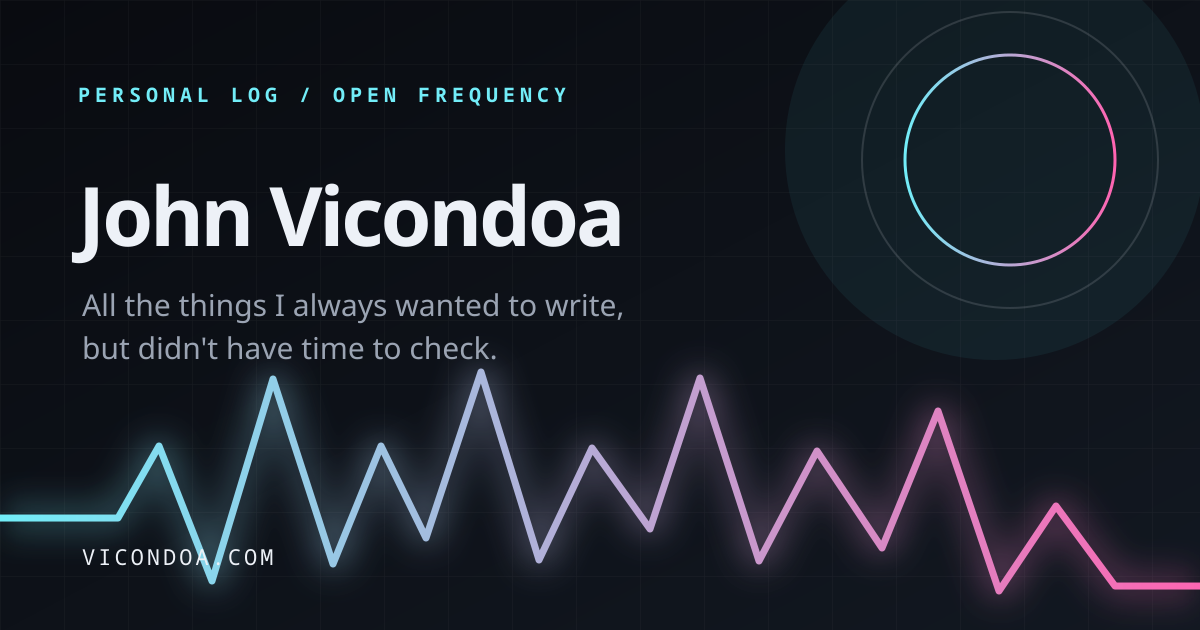
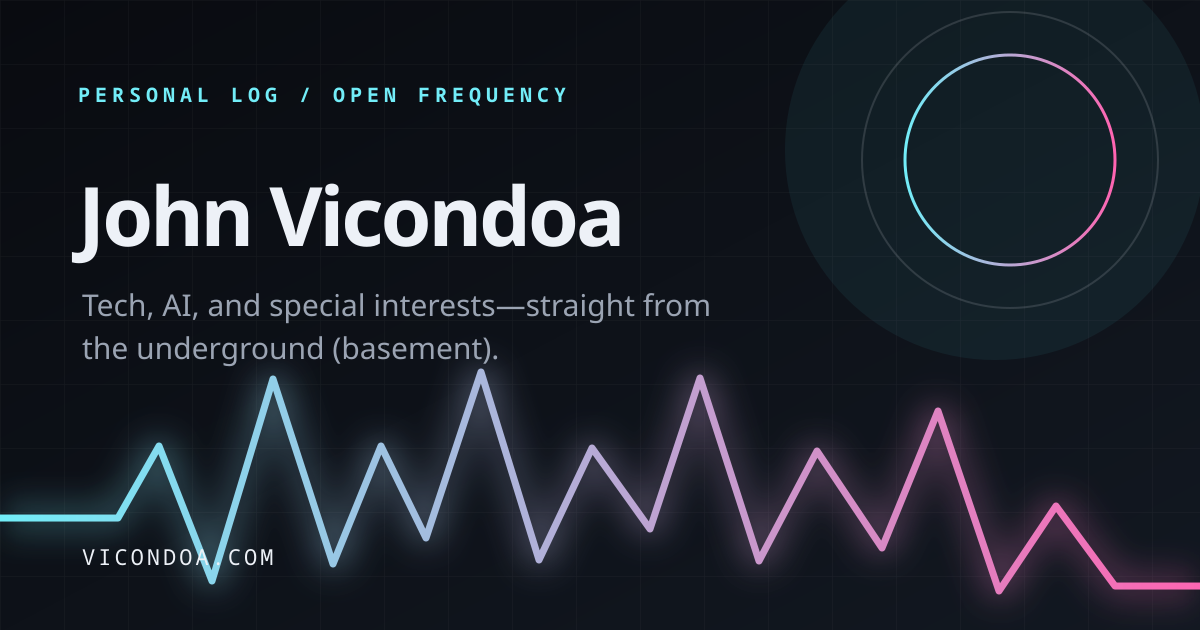
Refine the header and matrix field (#3)
Copilot-Session: d1b2f3a9-69b7-400d-a304-41e5a9e0c7bb

Changed region(s): [[0.0617, 0.4524, 0.5858, 0.5127], [0.0617, 0.5429, 0.4317, 0.573]]

diff --git a/src/styles/global.css b/src/styles/global.css
@@ -22,7 +22,7 @@
   --font-mono: 'SFMono-Regular', Consolas, 'Liberation Mono', monospace;
   --content-width: 46rem;
   --wide-width: 72rem;
-  --header-height: 4.75rem;
+  --header-height: 6.25rem;
 }
 
 @media (prefers-color-scheme: dark) {
@@ -219,34 +219,38 @@ p {
   min-height: var(--header-height);
   align-items: center;
   gap: 1rem;
-  grid-template-columns: auto 1fr;
+  grid-template-columns: minmax(0, 1fr) auto;
 }
 
-.brand-mark {
-  display: grid;
-  width: 2.4rem;
-  height: 2.4rem;
-  place-items: center;
-  border: 1px solid transparent;
-  border-radius: 0.4rem;
-  color: var(--cyan);
+.site-identity {
+  display: flex;
+  min-width: 0;
+  align-items: flex-start;
+  flex-direction: column;
+  color: var(--text);
+  line-height: 1.25;
   text-decoration: none;
 }
 
-.brand-mark:hover {
-  border-color: var(--border);
-  background: var(--surface);
-  color: var(--cyan);
+.site-identity:hover {
+  color: var(--text);
 }
 
-.brand-mark svg {
-  width: 1.5rem;
-  height: 1.5rem;
-  fill: currentColor;
+.site-identity__name {
+  font-family: var(--font-display);
+  font-size: 1.15rem;
+  font-weight: 720;
+  letter-spacing: -0.025em;
 }
 
-.brand-mark__accent {
-  fill: var(--magenta);
+.site-identity__tagline {
+  max-width: 34rem;
+  margin-top: 0.24rem;
+  color: var(--text-muted);
+  font-family: var(--font-mono);
+  font-size: 0.68rem;
+  letter-spacing: 0.015em;
+  line-height: 1.4;
 }
 
 .site-nav {
@@ -336,16 +340,9 @@ p {
 .site-footer__inner {
   display: flex;
   align-items: flex-start;
-  justify-content: space-between;
+  justify-content: flex-end;
   gap: 2rem;
   padding-block: 2.5rem;
-}
-
-.site-footer__tagline {
-  max-width: 35rem;
-  margin: 0;
-  color: var(--text-muted);
-  font-size: 0.9rem;
 }
 
 .site-footer__meta {
@@ -566,17 +563,14 @@ p {
 
 .blog-hero {
   position: relative;
-  min-height: clamp(20rem, 44vw, 30rem);
+  min-height: clamp(26rem, 50vw, 36rem);
   overflow: hidden;
   border-bottom: 1px solid var(--border);
-  background:
-    linear-gradient(
-      90deg,
-      color-mix(in srgb, var(--bg) 92%, transparent) 0%,
-      color-mix(in srgb, var(--bg) 68%, transparent) 42%,
-      color-mix(in srgb, var(--bg) 30%, transparent) 100%
-    ),
-    radial-gradient(circle at 68% 45%, var(--glow), transparent 32rem);
+  background: radial-gradient(
+    circle at 52% 42%,
+    var(--glow),
+    transparent 36rem
+  );
 }
 
 .blog-hero::after {
@@ -584,47 +578,20 @@ p {
   inset: 0;
   background: linear-gradient(
     to bottom,
-    transparent 46%,
-    color-mix(in srgb, var(--bg) 84%, transparent) 84%,
+    transparent 52%,
+    color-mix(in srgb, var(--bg) 74%, transparent) 82%,
     var(--bg)
   );
   content: '';
   pointer-events: none;
 }
 
-.blog-hero__content {
-  position: relative;
-  z-index: 2;
-  display: flex;
-  min-height: inherit;
-  flex-direction: column;
-  justify-content: center;
-  padding-block: clamp(4rem, 9vw, 7rem);
-}
-
-.blog-hero h1 {
-  max-width: 38rem;
-  margin-bottom: 0.25em;
-  font-size: clamp(3rem, 8vw, 5.6rem);
-}
-
-.blog-hero__content > p {
-  max-width: 35rem;
-  margin: 0;
-  color: var(--text-muted);
-  font-family: var(--font-display);
-  font-size: clamp(1.1rem, 2.4vw, 1.55rem);
-  letter-spacing: -0.015em;
-  line-height: 1.45;
-  text-wrap: balance;
-}
-
 .matrix-backdrop {
   position: absolute;
   z-index: 1;
-  inset: -2rem -4rem -1rem 16%;
+  inset: -2rem -2rem -1rem;
   color: var(--text-muted);
-  opacity: 0.58;
+  opacity: 0.76;
   pointer-events: none;
 }
 
@@ -636,15 +603,22 @@ p {
 .matrix-backdrop__grid {
   fill: none;
   stroke: var(--grid);
-  stroke-width: 1;
+  stroke-width: 0.8;
 }
 
-.matrix-backdrop__bits {
-  fill: var(--text-muted);
+.matrix-backdrop__column {
+  fill: var(--cyan);
   font-family: var(--font-mono);
-  font-size: 10px;
-  letter-spacing: 0.45em;
-  opacity: 0.24;
+  font-size: 13px;
+  font-weight: 600;
+  letter-spacing: 0.08em;
+  opacity: 0.52;
+  filter: drop-shadow(0 0 0.2rem var(--glow));
+}
+
+.matrix-backdrop__column--accent {
+  fill: var(--magenta);
+  opacity: 0.7;
 }
 
 .blog-listing {
@@ -932,12 +906,17 @@ p {
   }
 
   .site-header__inner {
-    padding-block: 0.85rem;
-    grid-template-columns: auto 1fr;
+    padding-block: 1rem;
+    grid-template-columns: minmax(0, 1fr) auto;
   }
 
   .site-header__actions {
     gap: 0.15rem;
+  }
+
+  .site-identity__tagline {
+    max-width: 13rem;
+    font-size: 0.62rem;
   }
 
   .site-footer__inner {
@@ -960,8 +939,8 @@ p {
   }
 
   .matrix-backdrop {
-    inset-inline: -14rem -7rem;
-    opacity: 0.46;
+    inset-inline: -24rem -18rem;
+    opacity: 0.68;
   }
 
   .topic-grid,

diff --git a/tests/smoke.spec.ts b/tests/smoke.spec.ts
@@ -39,11 +39,16 @@ test('site navigation and GitHub profile links are present', async ({
   await expect(
     page.getByRole('navigation', { name: 'Primary navigation' }),
   ).toBeVisible();
-  await expect(
-    page.getByRole('heading', { name: 'Writing', exact: true }),
-  ).toBeVisible();
+  await expect(page.locator('h1')).toHaveText("John Vicondoa's blog");
+  await expect(page.getByText('Writing', { exact: true })).toHaveCount(0);
   await expect(page.locator(`a[href="${githubUrl}"]`)).toHaveCount(2);
-  await expect(page.getByText('John Vicondoa', { exact: true })).toHaveCount(0);
+  await expect(page.getByText('John Vicondoa', { exact: true })).toHaveCount(1);
+  await expect(
+    page.getByText(
+      'Tech, AI, and special interests—straight from the underground (basement).',
+      { exact: true },
+    ),
+  ).toHaveCount(1);
 
   await page
     .getByRole('link', { name: 'About me', exact: true })
@@ -56,9 +61,7 @@ test('site navigation and GitHub profile links are present', async ({
 test('legacy blog index redirects to the landing page', async ({ page }) => {
   await page.goto('/blog');
   await expect(page).toHaveURL('/');
-  await expect(
-    page.getByRole('heading', { name: 'Writing', exact: true }),
-  ).toBeVisible();
+  await expect(page.locator('h1')).toHaveText("John Vicondoa's blog");
 });
 
 test.describe('theme preference', () => {

diff --git a/src/site.config.ts b/src/site.config.ts
@@ -2,7 +2,7 @@ export const SITE = {
   author: 'John Vicondoa',
   title: 'John Vicondoa',
   tagline:
-    "All the things I always wanted to write, but didn't have time to check.",
+    'Tech, AI, and special interests—straight from the underground (basement).',
   description:
     'Personal essays and notes on technology, fatherhood, neurodiversity, electronic music, local history, and whatever else catches my attention.',
   url: 'https://vicondoa.com',
